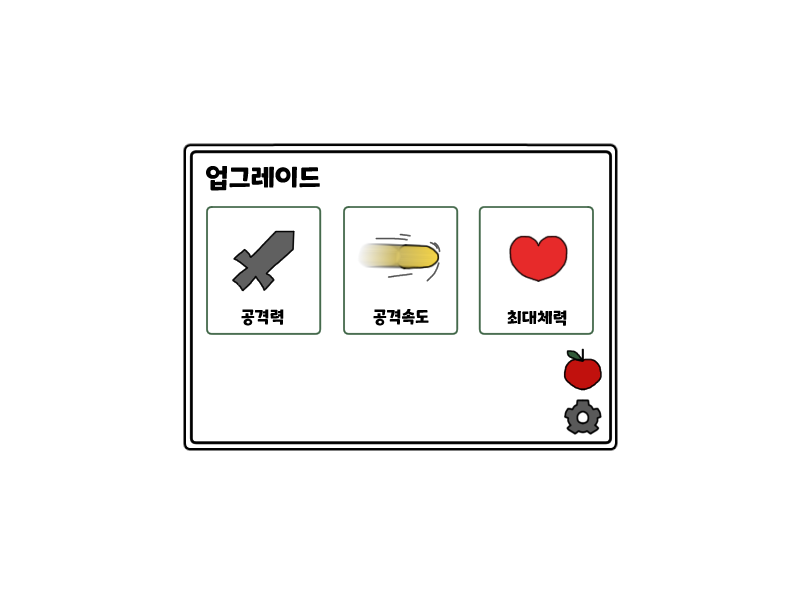
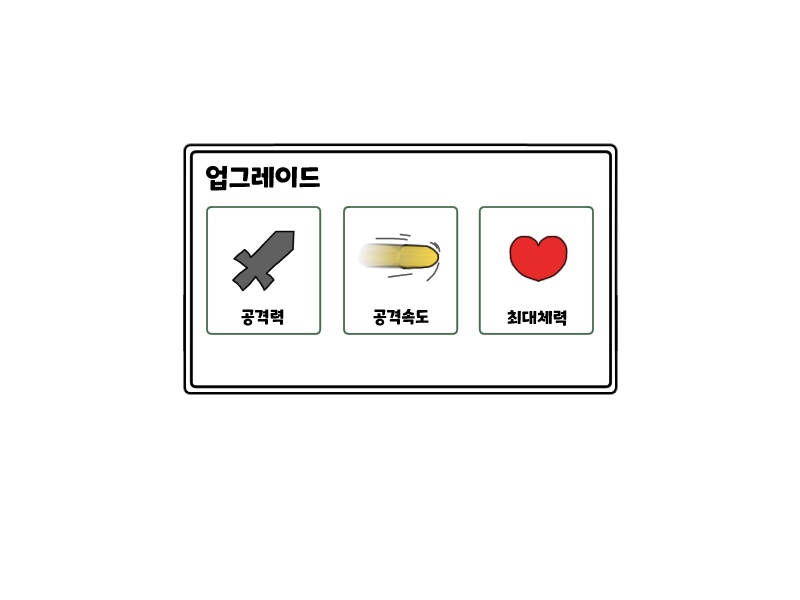
재료 사용하여 능력치 레벨업

Changed region(s): [[0.2188, 0.57, 0.7812, 0.75]]

diff --git a/code/mode/item_mode.py b/code/mode/item_mode.py
@@ -7,27 +7,31 @@ import game_framework
 from . import lobby_mode
 import game_world
 from item_select import SelectItem
+import common
 
 image = None
 image2 = None
+font = None
 select_item1, select_item2, select_item3 = None, None, None
 
 def init():
-    global image, image2, select_item1, select_item2, select_item3
+    global image, image2, select_item1, select_item2, select_item3, font
     image = load_image('images/item.png')
     image2 = load_image('images/lobby.png')
+    font = load_font('images/ENCR10B.TTF', 16)
 
-    select_item1 = SelectItem(265, 330)
-    select_item2 = SelectItem(400, 330)
-    select_item3 = SelectItem(535, 330)
+    select_item1 = SelectItem(265, 330, 'power')
+    select_item2 = SelectItem(400, 330, 'speed')
+    select_item3 = SelectItem(535, 330, 'maxhp')
 
 def finish():
-    global image, image2, select_item1, select_item2, select_item3
+    global image, image2, select_item1, select_item2, select_item3, font
     del image
     del image2
     del select_item1
     del select_item2
     del select_item3
+    del font
 
 def update():
     game_world.update()
@@ -43,6 +47,9 @@ def draw():
     select_item2.draw()
     select_item3.draw()
 
+    font.draw(655, 530, f'{common.gear}', (0, 0, 0))
+    font.draw(655, 530, f'{common.gear}', (0, 0, 0))
+
     update_canvas()
 
 #이벤트 변경해야함
@@ -51,11 +58,37 @@ def handle_events():
     for event in event_list:
         if event.type == SDL_QUIT:
             game_framework.quit()
+        # ESC / SPACE는 기존 동작 유지
         elif event.type == SDL_KEYDOWN and event.key == SDLK_ESCAPE:
             game_framework.pop_mode()
         elif event.type == SDL_KEYDOWN and event.key == SDLK_SPACE:
             game_framework.pop_mode()
+        # 마우스 왼쪽 클릭 처리: 선택 아이템의 바운딩박스와 비교
+        elif event.type == SDL_MOUSEBUTTONDOWN and event.button == SDL_BUTTON_LEFT:
+            try:
+                mx = event.x
+                my = 600 - event.y
+            except Exception:
+                mx = None
+                my = None
 
+            if mx is not None and my is not None:
+                for it in (select_item1, select_item2, select_item3):
+                    if it is None:
+                        continue
+                    try:
+                        left, bottom, right, top = it.get_bb()
+                    except Exception:
+                        continue
+                    if left <= mx <= right and bottom <= my <= top:
+                        # 클릭된 아이템 적용
+                        try:
+                            applied = it.clicked()
+                            if applied:
+                                print(f"Item '{it.kind}' applied")
+                        except Exception:
+                            pass
+                        break
 
 def pause():
     pass

diff --git a/code/item_select.py b/code/item_select.py
@@ -1,24 +1,60 @@
 from pico2d import *
 from sdl2 import *
 import game_framework
+import common
 
 class SelectItem:
-    def __init__(self, x, y):
+    def __init__(self, x, y, kind='power'):
         self.x = x
         self.y = y
+        self.kind = kind  # 'power', 'speed', 'maxhp' 등
+        self.font = load_font('images/ENCR10B.TTF', 16)
 
     def update(self):
         pass
 
     def draw(self):
+        # 선택 영역 가시화 (기본 동작 유지)
         draw_rectangle(*self.get_bb())
+        # 종류 표시
+        label = self.kind
+        self.font.draw(self.x - 30, self.y - 80, label, (0, 0, 0))
 
     def clear(self):
-        pass
+        try:
+            del self.font
+        except Exception:
+            pass
 
     def get_bb(self):
         return (self.x - 56, self.y - 64, self.x + 56, self.y + 64)
 
     def handle_collision(self, key, other):
-
         pass
+
+    def clicked(self):
+        # 이미 사용된 아이템이면 무시
+
+        # 종류별 효과 적용
+        if self.kind == 'power':
+            # 공격력 증가
+            if hasattr(common, 'player_attack_power') and common.gear >= 5:
+                common.player_attack_power += 3
+                common.gear -= 5
+                print(f"player_attack_power -> {common.player_attack_power}")
+        elif self.kind == 'speed':
+            # 공격 속도 증가(초당 발사 수 증가)
+            if hasattr(common, 'player_attack_speed') and common.gear >= 5:
+                common.player_attack_speed += 1.0
+                common.gear -= 5
+                print(f"player_attack_speed -> {common.player_attack_speed}")
+        elif self.kind == 'maxhp':
+            # 최대 체력 증가
+            if hasattr(common, 'player_max_heart') and common.apple >= 5:
+                common.player_max_heart += 20
+                common.apple -= 5
+                common.player_heart = common.player_max_heart
+                print(f"player_max_heart -> {common.player_max_heart}")
+        else:
+            print(f"Unknown item kind: {self.kind}")
+        return True

diff --git a/code/main.py b/code/main.py
@@ -6,5 +6,5 @@ from mode import logo_mode, play_mode, title_mode, lobby_mode, gameover_mode
 
 
 open_canvas()
-game_framework.run(play_mode)
+game_framework.run(lobby_mode)
 close_canvas()

diff --git a/code/common.py b/code/common.py
@@ -1,5 +1,5 @@
-apple = 0
-gear = 0
+apple = 100
+gear = 100
 player_max_heart = 100
 player_heart = 100
 player_attack_speed = 5.0
